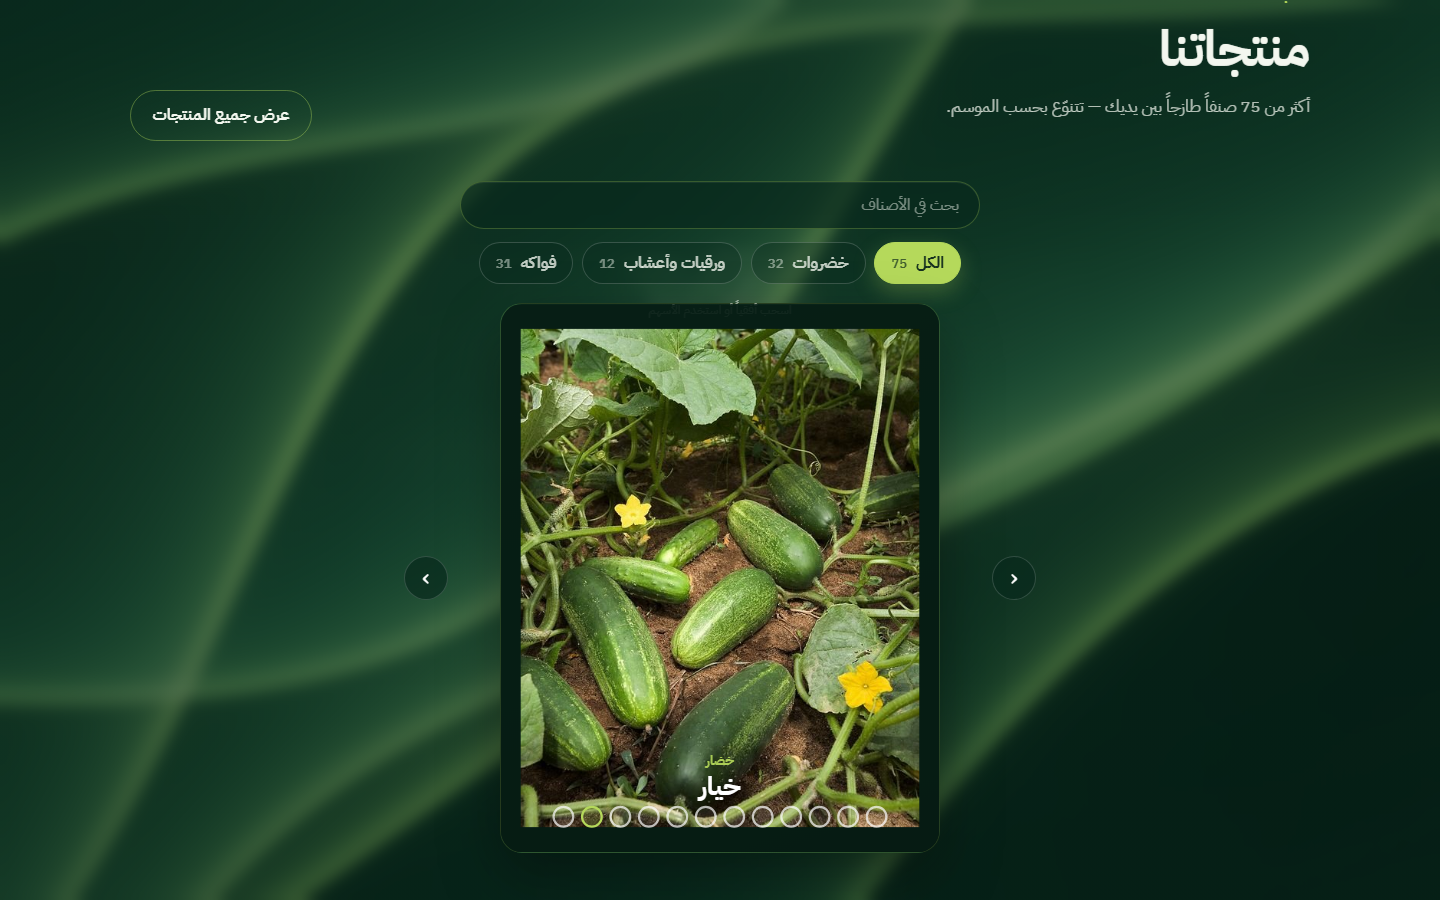
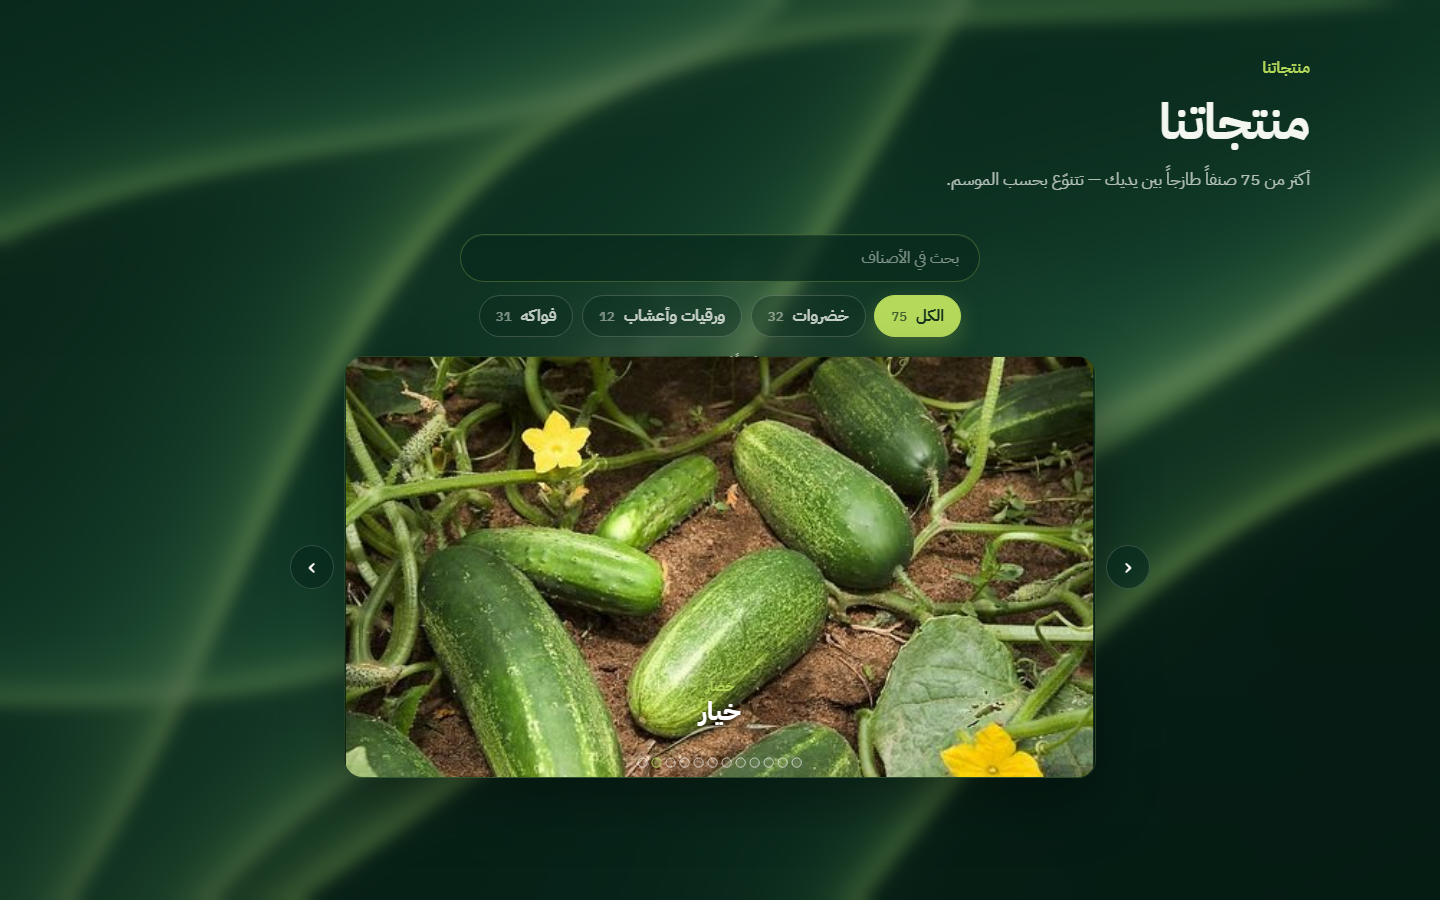
fix: moderate landscape gallery; drop catalog grid
Remove product catalog grid for good. Keep search + filter pills.
Gallery stays 16:9 landscape with ~860px max width and page margins
(not full-viewport). Center cover crop for landscape framing.

diff --git a/src/effects/circular-gallery.js b/src/effects/circular-gallery.js
@@ -8,18 +8,18 @@ import { MotionPathPlugin } from 'gsap/MotionPathPlugin';
 
 gsap.registerPlugin(MotionPathPlugin);
 
-/** ViewBox matches product asset ratio (4:5 / 520×650). */
-const VIEW_W = 400;
-const VIEW_H = 500;
-const DOT_R = 7;
-const DOT_GAP = 12;
-const EXPAND = 700;
+/** Wide landscape viewBox (~16:9) for full-bleed gallery. */
+const VIEW_W = 1600;
+const VIEW_H = 900;
+const DOT_R = 8;
+const DOT_GAP = 14;
+const EXPAND = 900;
 const AUTO_MS = 4500;
-/** Soft inset — full produce visible without extreme zoom. */
-const IMG_PAD_X = 18;
-const IMG_PAD_Y = 22;
-const IMG_W = VIEW_W - IMG_PAD_X * 2;
-const IMG_H = VIEW_H - IMG_PAD_Y * 2;
+/** Mild inset; open state uses cover (slice) to fill the landscape frame. */
+const IMG_PAD_X = 0;
+const IMG_PAD_Y = 0;
+const IMG_W = VIEW_W;
+const IMG_H = VIEW_H;
 
 /**
  * @param {HTMLElement} root
@@ -116,19 +116,15 @@ export function mountCircularGallery(root, opts = {}) {
 
   function fitImage(img, mode) {
     if (!img) return;
-    // Always meet (contain) — product assets are 4:5 portraits; no extreme zoom
-    img.setAttribute('preserveAspectRatio', 'xMidYMid meet');
-    if (mode === 'contain') {
-      img.setAttribute('x', String(IMG_PAD_X));
-      img.setAttribute('y', String(IMG_PAD_Y));
-      img.setAttribute('width', String(IMG_W));
-      img.setAttribute('height', String(IMG_H));
-    } else {
-      img.setAttribute('x', '10');
-      img.setAttribute('y', '12');
-      img.setAttribute('width', String(VIEW_W - 20));
-      img.setAttribute('height', String(VIEW_H - 24));
-    }
+    img.setAttribute('x', '0');
+    img.setAttribute('y', '0');
+    img.setAttribute('width', String(VIEW_W));
+    img.setAttribute('height', String(VIEW_H));
+    // Open: cover landscape frame (gentle center crop). Dots: meet to keep color readable.
+    img.setAttribute(
+      'preserveAspectRatio',
+      mode === 'cover' ? 'xMidYMid slice' : 'xMidYMid meet',
+    );
   }
 
   function setLayerState(i, inPlace) {
@@ -141,7 +137,7 @@ export function mountCircularGallery(root, opts = {}) {
       g?.setAttribute('clip-path', `url(#${uid}_${i}_sq)`);
       // Open frame must sit above inactive dots (and their mattes)
       layer.style.zIndex = String(items.length + 20);
-      fitImage(img, 'contain');
+      fitImage(img, 'cover');
       layer.classList.add('is-open');
       matte?.setAttribute('opacity', '1');
     } else {
@@ -149,7 +145,6 @@ export function mountCircularGallery(root, opts = {}) {
       layer.style.zIndex = String(i + 1);
       fitImage(img, 'dot');
       layer.classList.remove('is-open');
-      // No full-frame matte on dots — it was covering the open image
       matte?.setAttribute('opacity', '0');
     }
     if (img && items[i]) {
@@ -207,7 +202,7 @@ export function mountCircularGallery(root, opts = {}) {
       stack.appendChild(layer);
       layerEls.push(layer);
       clipEls.push(layer.querySelector('[data-ccig-clip]'));
-      fitImage(layer.querySelector('image'), i === index ? 'contain' : 'dot');
+      fitImage(layer.querySelector('image'), i === index ? 'cover' : 'dot');
 
       const tab = document.createElementNS('http://www.w3.org/2000/svg', 'circle');
       tab.setAttribute('class', 'ccig__dot');

diff --git a/src/main.js b/src/main.js
@@ -104,30 +104,8 @@ function produceType(cat, locale = langNow()) {
   return fruit ? STRINGS.ar.products.typeFruit : STRINGS.ar.products.typeVeg;
 }
 
-function renderProducts(filter = '') {
-  const grid = document.querySelector('#productGrid');
-  if (!grid) return;
-  const q = filter.trim().toLowerCase();
-  const locale = langNow();
-  const list = products.filter((p) => {
-    if (!q) return true;
-    const type = produceType(p.cat, locale);
-    return `${p.ar} ${p.en} ${p.slug} ${type}`.toLowerCase().includes(q);
-  });
-  grid.innerHTML = list
-    .map((p) => {
-      const type = produceType(p.cat, locale);
-      const name = productLabel(p);
-      return `<figure class="pcard" data-cat="${p.cat}">
-        <img src="/img/products/${p.slug}.jpg" alt="${type} — ${name}" width="160" height="160" loading="lazy" decoding="async" />
-        <figcaption class="produce-label">
-          <span class="produce-type">${type}</span>
-          <span class="produce-name">${name}</span>
-        </figcaption>
-      </figure>`;
-    })
-    .join('');
-}
+/** Catalog grid removed — keep stub so i18n/lang refresh stays safe. */
+function renderProducts() {}
 
 function initGlassFold() {
   const canvas = document.querySelector('#glassFold');
@@ -216,19 +194,6 @@ function initProductsGallery() {
     locale: langNow(),
     hintAr: STRINGS.ar.products.carouselHint,
     hintEn: STRINGS.en.products.carouselHint,
-    onSelect: (_index, item) => {
-      const catalog = document.querySelector('#catalog');
-      catalog?.removeAttribute('hidden');
-      const want = item?.cat || '';
-      const search = document.querySelector('#productSearch');
-      if (search) search.value = '';
-      renderProducts();
-      if (want) {
-        [...document.querySelectorAll('#productGrid .pcard')].forEach((card) => {
-          card.hidden = card.dataset.cat !== want;
-        });
-      }
-    },
   });
 
   document.querySelectorAll('#productFilters .filter-pill').forEach((btn) => {
@@ -527,27 +492,9 @@ function initUI() {
     if (open) requestAnimationFrame(() => liquidNav?.refresh?.());
   });
 
-  const catalog = document.querySelector('#catalog');
-  document.querySelector('#toggleCatalog')?.addEventListener('click', () => {
-    const hidden = catalog.hasAttribute('hidden');
-    if (hidden) catalog.removeAttribute('hidden');
-    else catalog.setAttribute('hidden', '');
-    if (hidden) catalog.scrollIntoView({ behavior: reduced ? 'auto' : 'smooth', block: 'start' });
-  });
-
   document.querySelector('#productSearch')?.addEventListener('input', (e) => {
     const q = e.target.value;
-    const next = galleryItemsFor(activeGalleryFilter, q);
-    galleryApi?.setItems?.(next, { animate: false });
-    if (q.trim()) {
-      catalog?.removeAttribute('hidden');
-      renderProducts(q);
-    } else if (activeGalleryFilter !== 'all') {
-      // keep catalog closed; gallery already filtered by pill
-      renderProducts('');
-    } else {
-      renderProducts('');
-    }
+    galleryApi?.setItems?.(galleryItemsFor(activeGalleryFilter, q), { animate: false });
   });
 
   document.querySelector('#contactForm')?.addEventListener('submit', (e) => {

diff --git a/src/styles/main.css b/src/styles/main.css
@@ -1633,22 +1633,27 @@ html[dir='rtl'] .marquee__track {
   }
 }
 
-/* Carousel circular clip gallery — square frame, dots → expand */
+/* Carousel circular clip gallery — landscape, moderate page width */
 .ig-wrap {
-  margin-top: 0.35rem;
+  margin-top: 0.85rem;
+  width: 100%;
 }
 
 .ccig {
   position: relative;
+  width: 100%;
+  max-width: 860px;
+  margin-inline: auto;
 }
 
 .ccig__shell {
   display: grid;
-  grid-template-columns: auto minmax(0, 520px) auto;
-  justify-content: center;
+  grid-template-columns: auto minmax(0, 1fr) auto;
+  justify-content: stretch;
   align-items: center;
-  gap: 0.75rem;
+  gap: 0.65rem;
   position: relative;
+  width: 100%;
 }
 
 .ccig__hint {
@@ -1683,11 +1688,10 @@ html[dir='rtl'] .marquee__track {
 
 .ccig__frame {
   position: relative;
-  width: min(440px, 100%);
-  /* Match product asset ratio (520×650) — avoids letterbox + extreme square crop */
-  aspect-ratio: 4 / 5;
-  margin-inline: auto;
-  border-radius: 22px;
+  width: 100%;
+  aspect-ratio: 16 / 9;
+  margin-inline: 0;
+  border-radius: 18px;
   overflow: hidden;
   border: 1px solid rgba(181, 217, 91, 0.18);
   background:
@@ -1781,6 +1785,10 @@ html[dir='rtl'] .marquee__track {
 }
 
 @media (max-width: 720px) {
+  .ccig {
+    max-width: 100%;
+  }
+
   .ccig__shell {
     grid-template-columns: 1fr;
   }
@@ -1790,7 +1798,9 @@ html[dir='rtl'] .marquee__track {
   }
 
   .ccig__frame {
-    width: min(360px, 100%);
+    width: 100%;
+    aspect-ratio: 16 / 10;
+    border-radius: 14px;
   }
 }
 

diff --git a/index.html b/index.html
@@ -330,15 +330,10 @@
       <!-- PRODUCTS -->
       <section class="products section" id="products">
         <div class="wrap">
-          <header class="section__head section__head--row" data-reveal>
-            <div>
-              <p class="kicker" data-i18n="products.kicker">منتجاتنا</p>
-              <h2 class="h2" data-split data-i18n="products.title">منتجاتنا</h2>
-              <p class="lead" data-i18n="products.lead">أكثر من 75 صنفاً طازجاً بين يديك — تتنوّع بحسب الموسم.</p>
-            </div>
-            <button class="btn btn--outline" type="button" id="toggleCatalog" data-i18n="products.all">
-              عرض جميع المنتجات
-            </button>
+          <header class="section__head" data-reveal>
+            <p class="kicker" data-i18n="products.kicker">منتجاتنا</p>
+            <h2 class="h2" data-split data-i18n="products.title">منتجاتنا</h2>
+            <p class="lead" data-i18n="products.lead">أكثر من 75 صنفاً طازجاً بين يديك — تتنوّع بحسب الموسم.</p>
           </header>
 
           <div class="products__search" data-reveal>
@@ -378,10 +373,6 @@
           </div>
 
           <p class="products__note" data-i18n="products.note" data-reveal></p>
-
-          <div class="catalog" id="catalog" hidden>
-            <div class="catalog__grid" id="productGrid"></div>
-          </div>
         </div>
       </section>
 
